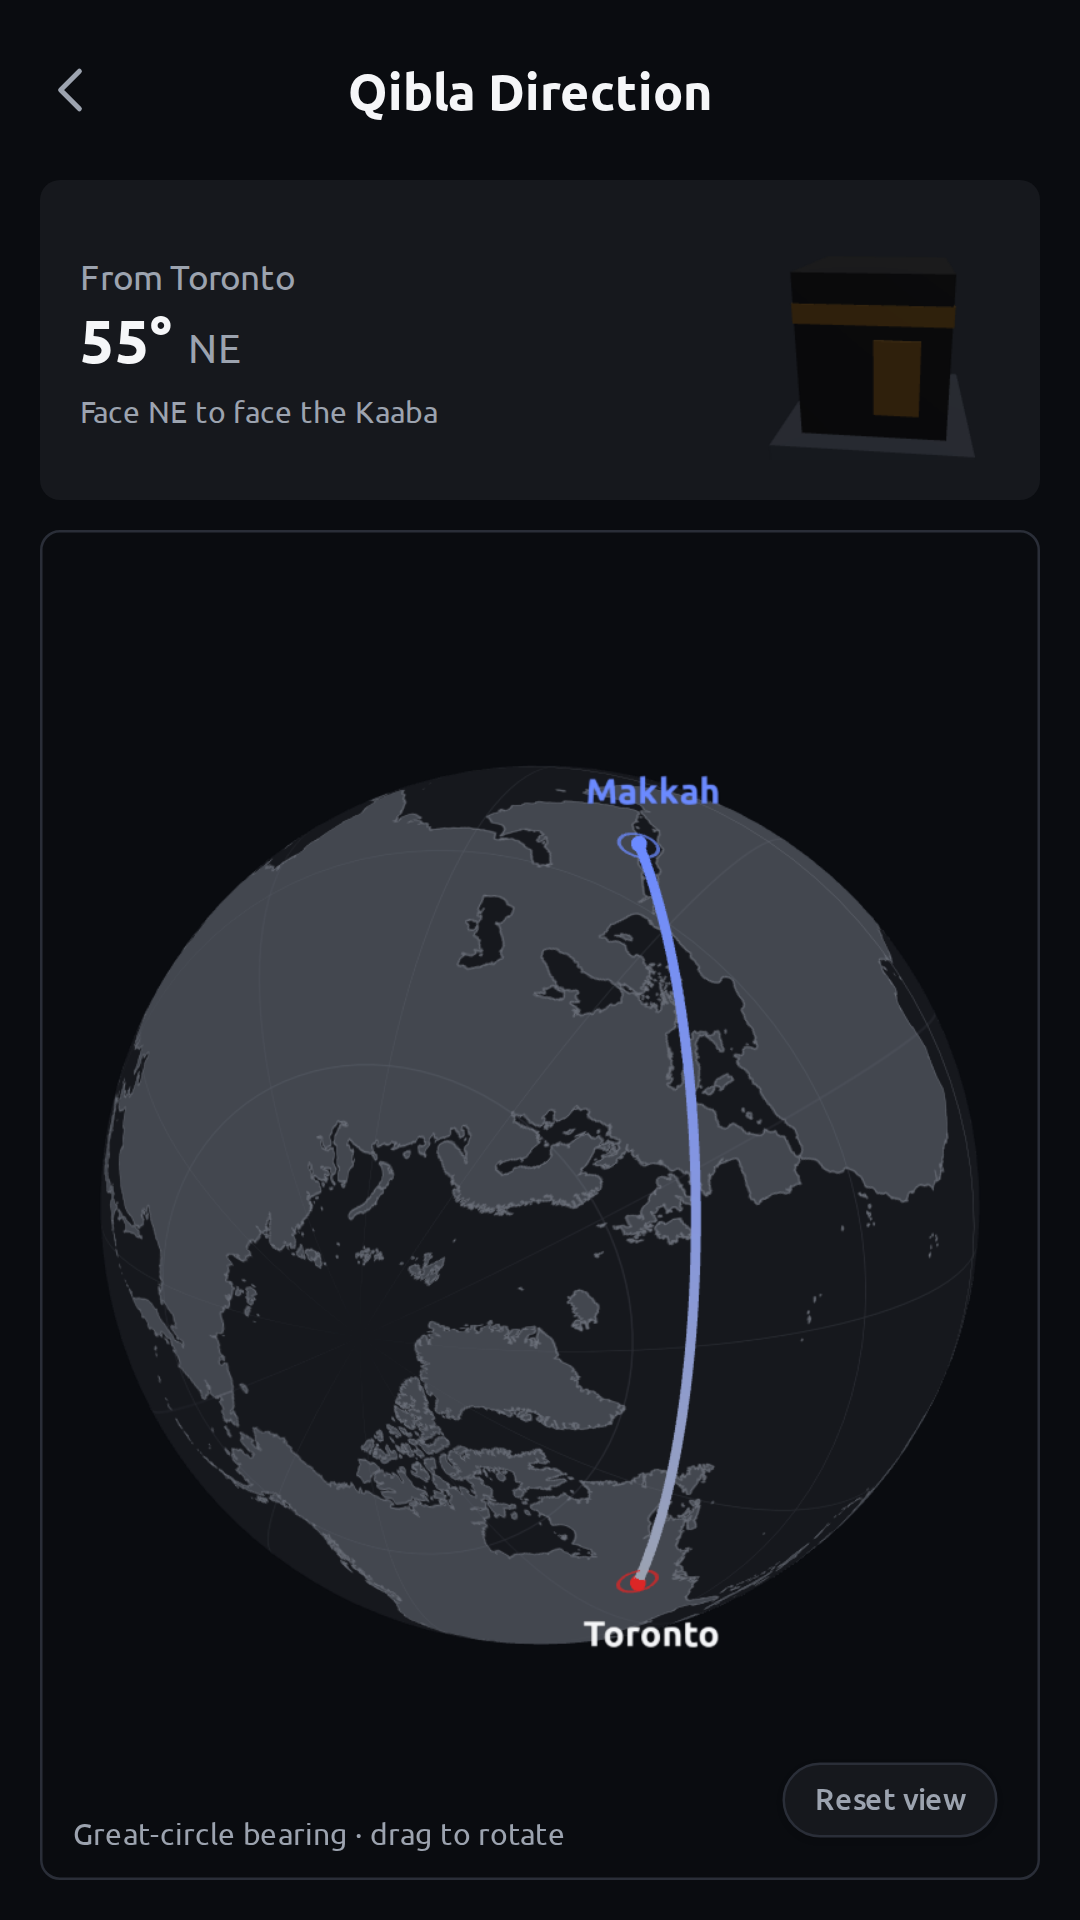
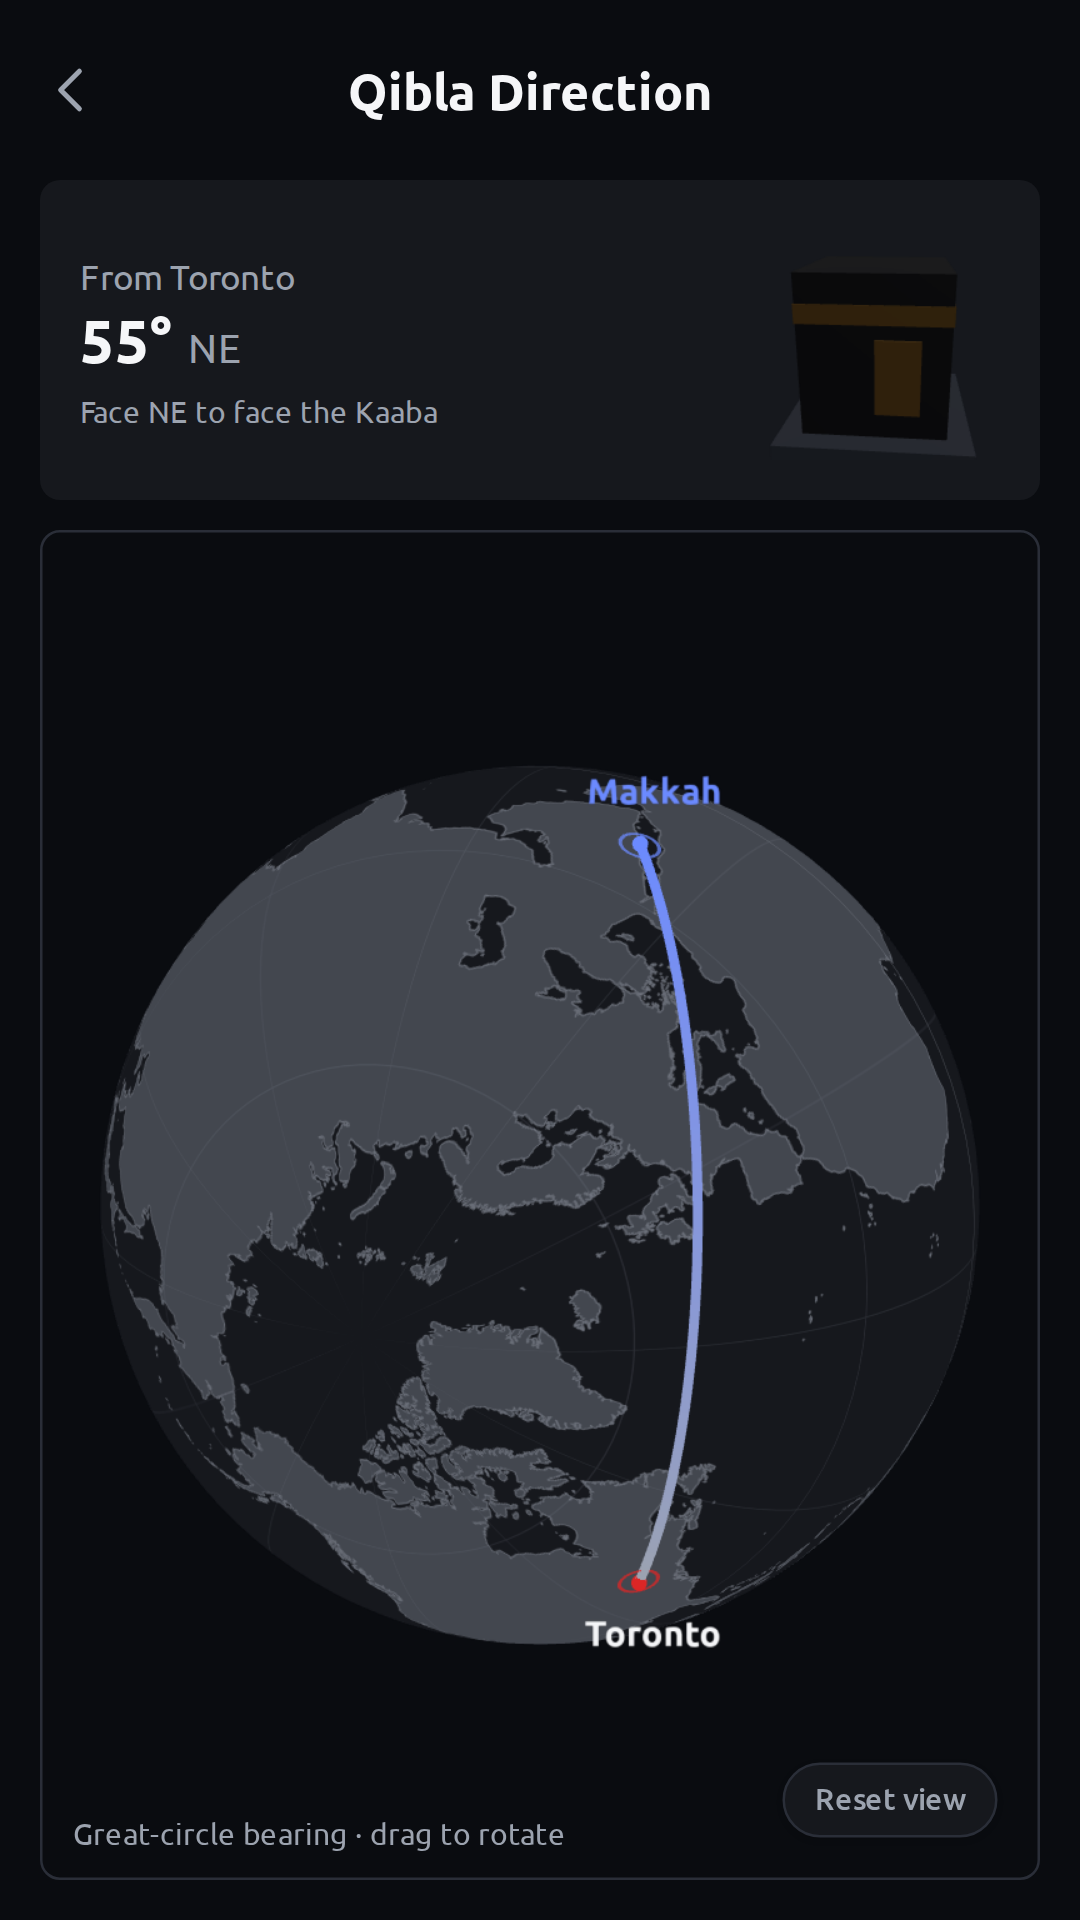
chore: reshoot the globe screenshot pulled back, at the day/night line
Two problems with the lead screenshot. It opened at the app's default framing,
close enough that the Earth ran off all four edges and read as a map rather
than as a planet. And it was taken from Toronto at whatever hour the script
happened to run, so the face in shot was usually lit end to end and the globe's
best trick — you can see where in the world it is night — never appeared.

Now taken from Mecca near sunrise, zoomed out nine notches. The whole disc and
its atmosphere sit inside the frame, night lies over west Africa, day over
Arabia and India, and the city's own dot sits on the sunrise line with the Fajr
and sunrise lines labelled either side of it.

Nine notches is measured, not guessed: seven leaves the disc clipped at the
left edge, eleven leaves so much empty sky the planet reads as small.

The rest of the set is re-rendered unchanged, since the script does the whole
set in one pass.

This shot now depends on the hour it is run at, which the README says plainly:
run it while Mecca is nowhere near sunrise or sunset and you get a flat lit
disc and the point of the shot is gone.

Claude-Session: https://claude.ai/code/session_01NtCCeB3zdjRzMNdhwNnsoP

diff --git a/docs/store/2026-09-10/README.md b/docs/store/2026-09-10/README.md
@@ -15,7 +15,7 @@ sub-menu that only makes sense once you already own it.
 
 | File | Screen | What it has to prove |
 |---|---|---|
-| `01-globe-home` | Globe home | The thing nothing else in this category has. A line drawn across the world for each prayer. Leads the listing. |
+| `01-globe-home` | Globe home | The thing nothing else in this category has. A line drawn across the world for each prayer. Pulled back far enough for the whole planet to sit in frame, and taken from Mecca at sunrise so day and night are both in shot. Leads the listing. |
 | `02-prayer-times` | Prayer list, light | The daily screen, with the Sunnah counts beside each prayer. Also proves there is a light theme. |
 | `03-qibla` | Qibla direction | Named in the short description, so it has to be seen. Shows the great-circle arc, not just a needle. |
 | `04-travel-mode` | Travel mode in use | Qasr and Jama' shown working, with a real distance from home. The feature most competitors do not have. |
@@ -40,6 +40,12 @@ one starts from a real city with onboarding already done.
 
 The travel shot puts home in Toronto and the user in Istanbul, so the banner
 shows a real distance and the list shows Dhuhr and Asr genuinely combined.
+
+The globe shot is the one that depends on **when** it is run. It sits in Mecca
+and zooms out, and the day/night line only crosses the visible face while Mecca
+is near sunrise or sunset. Run it at the wrong hour and you get a fully lit
+disc or a fully dark one, which loses the whole point of the shot. Look at it
+before keeping it.
 
 ## Still to do before a listing update
 
